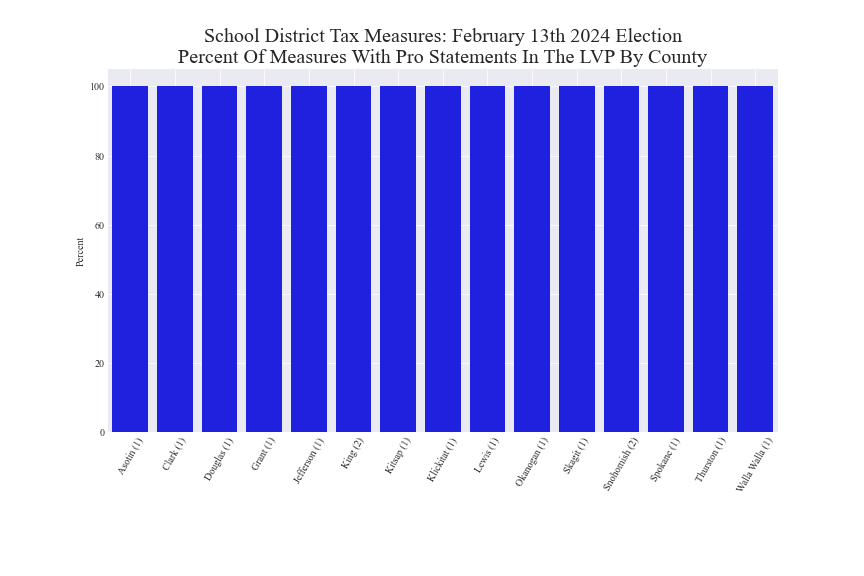
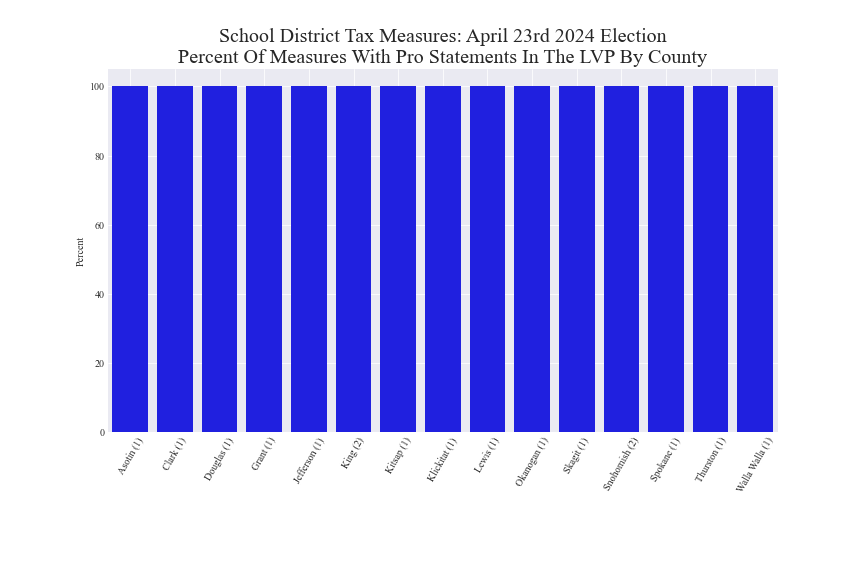
Updated election 20240423

Changed region(s): [[0.25, 0.0312, 0.7812, 0.0938]]

diff --git a/pagesManual/LeviesReport/report_levies_20240423.md b/pagesManual/LeviesReport/report_levies_20240423.md
@@ -4,7 +4,7 @@ title: School District Tax Measures April 23rd 2024
 permalink: report_levies_20240423
 ---
 
-Last updated: March 27th, 2024
+Last updated: April 15th, 2024
 
 In progress.
 
@@ -50,14 +50,19 @@ Listed below are the the types and counts for the tax measures for the February 
 - Enrichment, capital and tech levies
     - Number of levies =  15
     - Number of levies with pro statements =  15
-    - Number of levies with con statements =  8
+    - Number of levies with con statements =  7
+    - Number of levies with phony con statements =  1
 	
 - Counties with 1 or more school district tax measures
     - Number of counties (out of 39 in WA) that have 1 or more tax measures = 15
 	- Number of counties with tax measures that are missing 1 or more pro statements = 0
-	- Number of counties with tax measures that are missing 1 or more con statements = 8
-	- Number of counties with tax measures that are missing all con statements = 8
+	- Number of counties with tax measures that are missing 1 or more con statements = 9
+	- Number of counties with tax measures that are missing all con statements = 9
+	- Number of counties with tax measures that have 1 or more phony con statements = 1
 	
+Klickitat County's LVP has a phony con statement regarding the Bickleton SD's Enrichment Levy.
+[Link to the Klickitat County's LVP](https://www.klickitatcounty.org/DocumentCenter/View/15815/April-23-2024-Special-Election-Voters-Pamphlet?bidId=)
+
 
 LVP pro/con statement statistics by county
 
